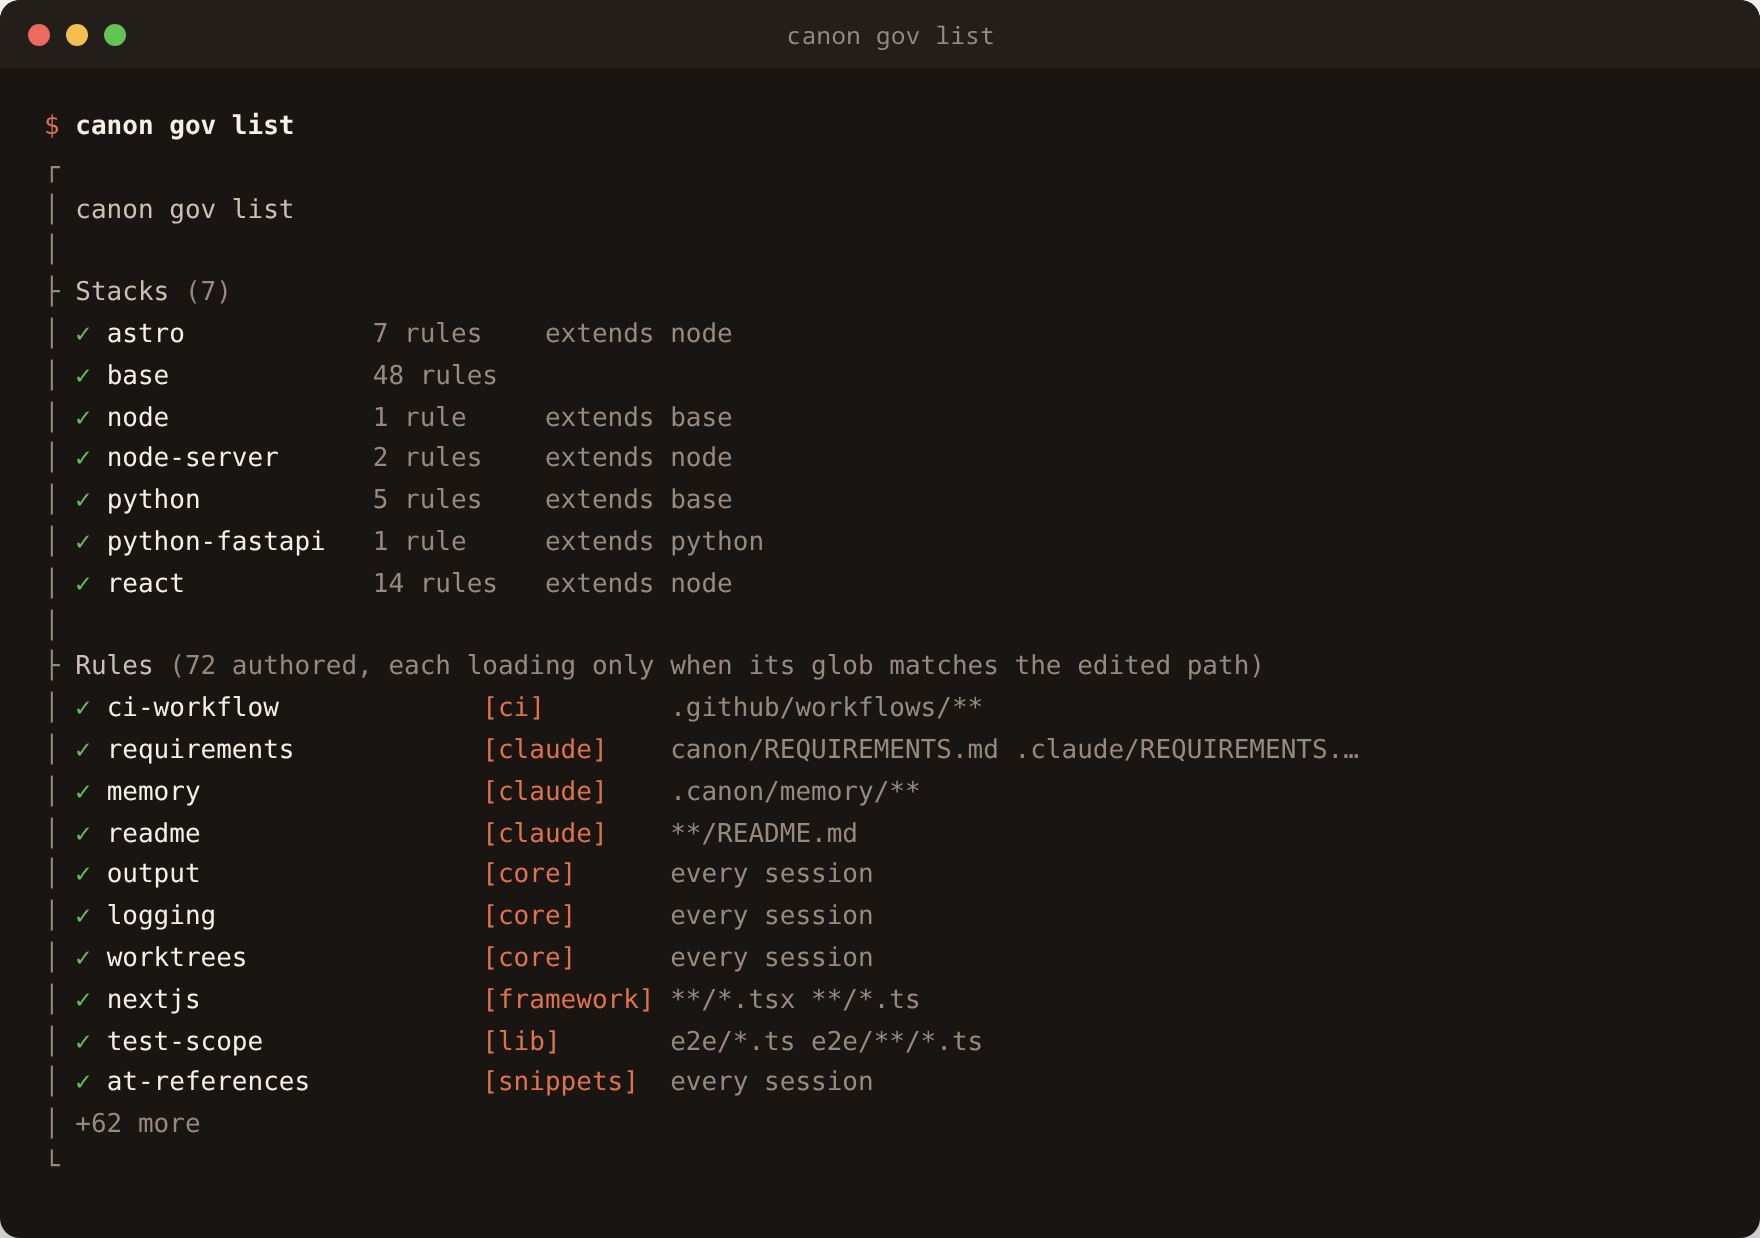
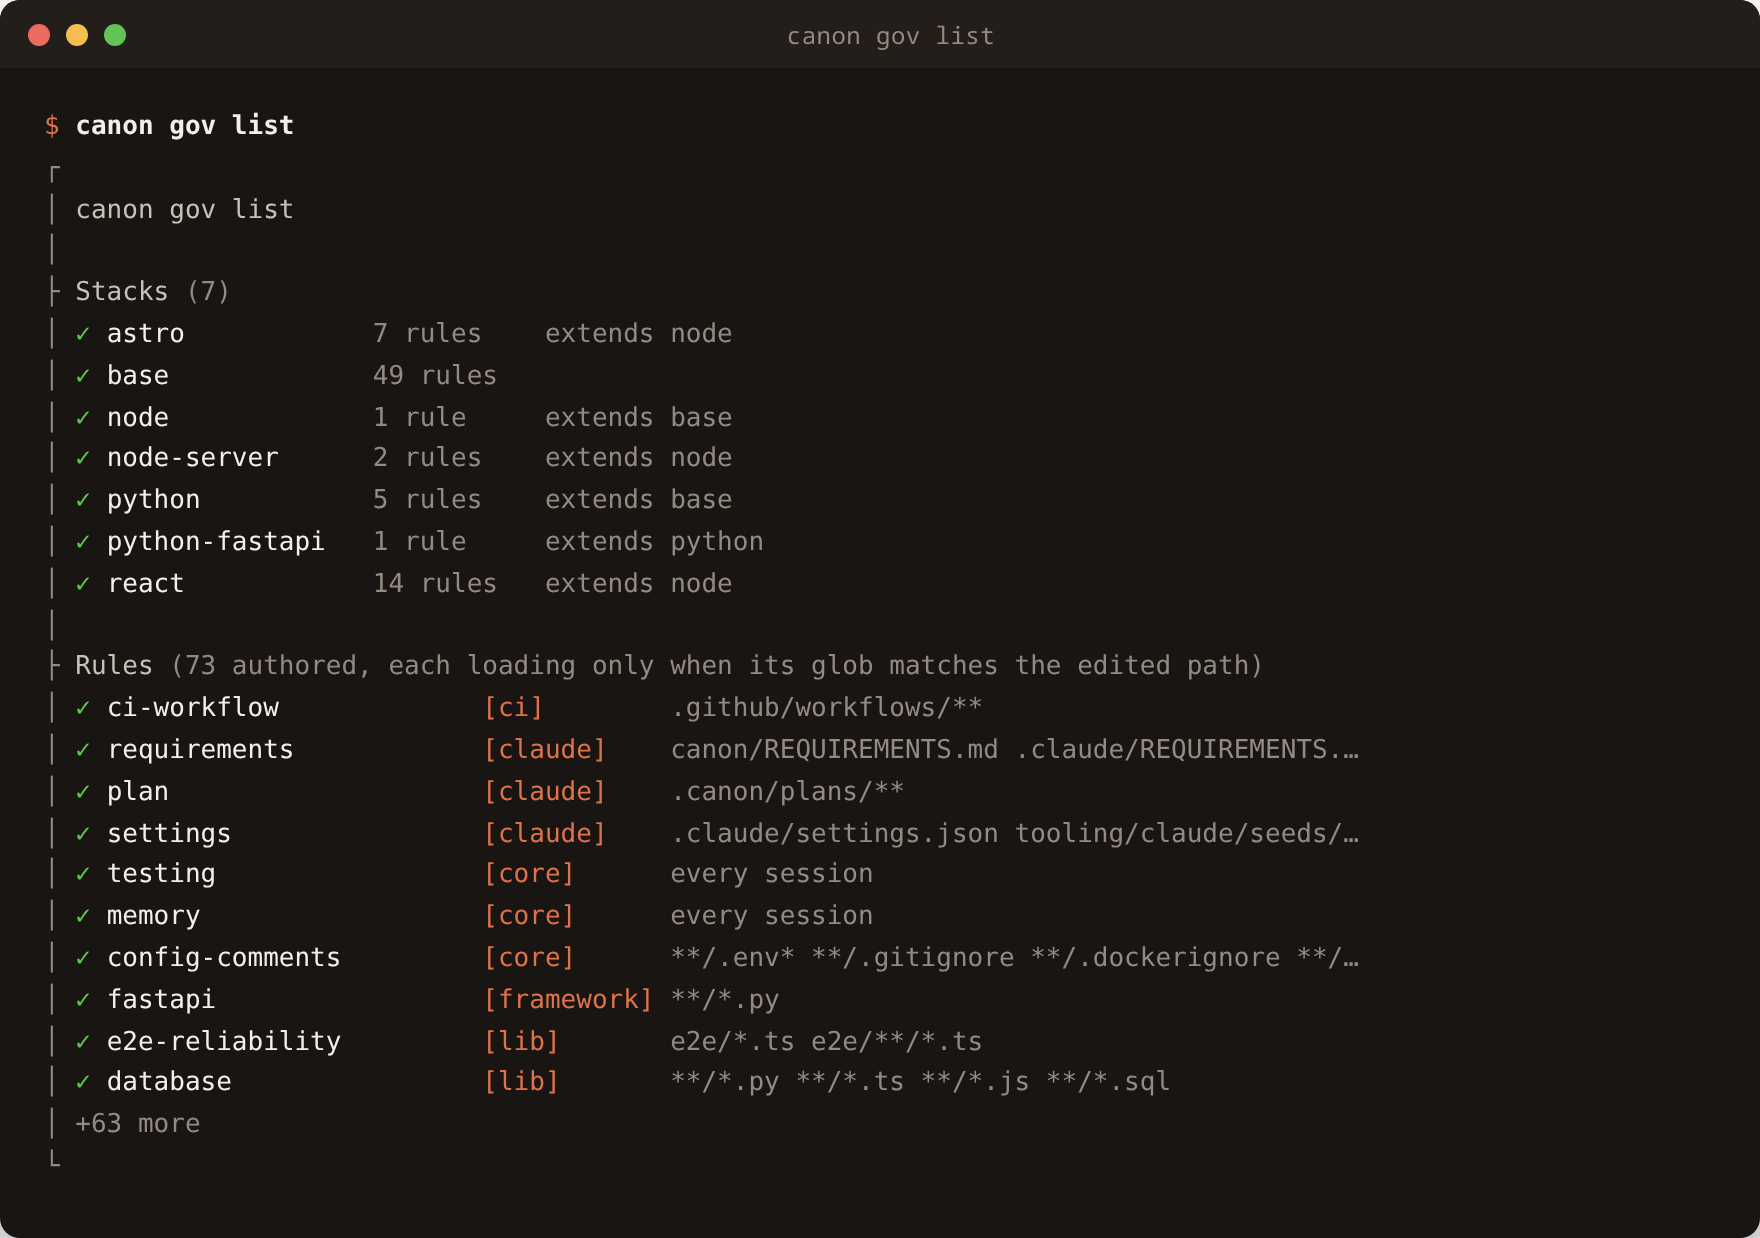
chore(assets): regenerate hero and governance captures
Claude-Session: https://claude.ai/code/session_01QwTa6Lgybc5u4zNPaf9CwS

diff --git a/assets/captures/governance.html b/assets/captures/governance.html
@@ -198,25 +198,25 @@
 <span class="frame">│</span>
 <span class="frame">├</span> Stacks <span class="muted">(7)</span>
 <span class="frame">│</span> <span class="ok">✓</span> <span class="name">astro            </span><span class="muted">7 rules    </span><span class="muted">extends node</span>
-<span class="frame">│</span> <span class="ok">✓</span> <span class="name">base             </span><span class="muted">48 rules   </span><span class="muted"></span>
+<span class="frame">│</span> <span class="ok">✓</span> <span class="name">base             </span><span class="muted">49 rules   </span><span class="muted"></span>
 <span class="frame">│</span> <span class="ok">✓</span> <span class="name">node             </span><span class="muted">1 rule     </span><span class="muted">extends base</span>
 <span class="frame">│</span> <span class="ok">✓</span> <span class="name">node-server      </span><span class="muted">2 rules    </span><span class="muted">extends node</span>
 <span class="frame">│</span> <span class="ok">✓</span> <span class="name">python           </span><span class="muted">5 rules    </span><span class="muted">extends base</span>
 <span class="frame">│</span> <span class="ok">✓</span> <span class="name">python-fastapi   </span><span class="muted">1 rule     </span><span class="muted">extends python</span>
 <span class="frame">│</span> <span class="ok">✓</span> <span class="name">react            </span><span class="muted">14 rules   </span><span class="muted">extends node</span>
 <span class="frame">│</span>
-<span class="frame">├</span> Rules <span class="muted">(72 authored, each loading only when its glob matches the edited path)</span>
+<span class="frame">├</span> Rules <span class="muted">(73 authored, each loading only when its glob matches the edited path)</span>
 <span class="frame">│</span> <span class="ok">✓</span> <span class="name">ci-workflow             </span><span class="domain">[ci]        </span><span class="muted">.github/workflows/**</span>
 <span class="frame">│</span> <span class="ok">✓</span> <span class="name">requirements            </span><span class="domain">[claude]    </span><span class="muted">canon/REQUIREMENTS.md .claude/REQUIREMENTS.…</span>
-<span class="frame">│</span> <span class="ok">✓</span> <span class="name">memory                  </span><span class="domain">[claude]    </span><span class="muted">.canon/memory/**</span>
-<span class="frame">│</span> <span class="ok">✓</span> <span class="name">readme                  </span><span class="domain">[claude]    </span><span class="muted">**/README.md</span>
-<span class="frame">│</span> <span class="ok">✓</span> <span class="name">output                  </span><span class="domain">[core]      </span><span class="muted">every session</span>
-<span class="frame">│</span> <span class="ok">✓</span> <span class="name">logging                 </span><span class="domain">[core]      </span><span class="muted">every session</span>
-<span class="frame">│</span> <span class="ok">✓</span> <span class="name">worktrees               </span><span class="domain">[core]      </span><span class="muted">every session</span>
-<span class="frame">│</span> <span class="ok">✓</span> <span class="name">nextjs                  </span><span class="domain">[framework] </span><span class="muted">**/*.tsx **/*.ts</span>
-<span class="frame">│</span> <span class="ok">✓</span> <span class="name">test-scope              </span><span class="domain">[lib]       </span><span class="muted">e2e/*.ts e2e/**/*.ts</span>
-<span class="frame">│</span> <span class="ok">✓</span> <span class="name">at-references           </span><span class="domain">[snippets]  </span><span class="muted">every session</span>
-<span class="frame">│</span> <span class="muted">+62 more</span>
+<span class="frame">│</span> <span class="ok">✓</span> <span class="name">plan                    </span><span class="domain">[claude]    </span><span class="muted">.canon/plans/**</span>
+<span class="frame">│</span> <span class="ok">✓</span> <span class="name">settings                </span><span class="domain">[claude]    </span><span class="muted">.claude/settings.json tooling/claude/seeds/…</span>
+<span class="frame">│</span> <span class="ok">✓</span> <span class="name">testing                 </span><span class="domain">[core]      </span><span class="muted">every session</span>
+<span class="frame">│</span> <span class="ok">✓</span> <span class="name">memory                  </span><span class="domain">[core]      </span><span class="muted">every session</span>
+<span class="frame">│</span> <span class="ok">✓</span> <span class="name">config-comments         </span><span class="domain">[core]      </span><span class="muted">**/.env* **/.gitignore **/.dockerignore **/…</span>
+<span class="frame">│</span> <span class="ok">✓</span> <span class="name">fastapi                 </span><span class="domain">[framework] </span><span class="muted">**/*.py</span>
+<span class="frame">│</span> <span class="ok">✓</span> <span class="name">e2e-reliability         </span><span class="domain">[lib]       </span><span class="muted">e2e/*.ts e2e/**/*.ts</span>
+<span class="frame">│</span> <span class="ok">✓</span> <span class="name">database                </span><span class="domain">[lib]       </span><span class="muted">**/*.py **/*.ts **/*.js **/*.sql</span>
+<span class="frame">│</span> <span class="muted">+63 more</span>
 <span class="frame">└</span></pre>
     </div>
   </body>

diff --git a/assets/captures/install-surface.html b/assets/captures/install-surface.html
@@ -206,18 +206,18 @@
 <span class="frame">│</span> <span class="ok">✓</span> <span class="name">web           </span><span class="muted">27 deps   </span><span class="muted">12 scripts  </span><span class="muted">extends base</span>
 <span class="blank"></span>
 <span class="prompt">$</span> <span class="cmd">canon standards list</span>
-<span class="frame">├</span> Standards <span class="muted">(31, never copied, opened by name when a session needs one)</span>
+<span class="frame">├</span> Standards <span class="muted">(32, never copied, opened by name when a session needs one)</span>
 <span class="frame">│</span> <span class="ok">✓</span> <span class="name">architecture      </span><span class="muted">canon/ARCHITECTURE.md</span>
 <span class="frame">│</span> <span class="ok">✓</span> <span class="name">context           </span><span class="muted">canon/context/</span>
-<span class="frame">│</span> <span class="ok">✓</span> <span class="name">docs              </span><span class="muted">docs/</span>
-<span class="frame">│</span> <span class="ok">✓</span> <span class="name">groundwork        </span><span class="muted">.canon/groundwork/&lt;nn&gt;-&lt;slug&gt;/</span>
-<span class="frame">│</span> <span class="ok">✓</span> <span class="name">markdown          </span><span class="muted">*</span>
+<span class="frame">│</span> <span class="ok">✓</span> <span class="name">diagrams          </span><span class="muted">.canon/diagrams/</span>
+<span class="frame">│</span> <span class="ok">✓</span> <span class="name">glossary          </span><span class="muted">.canon/teach/&lt;nn&gt;-&lt;topic&gt;/GLOSSARY.md</span>
+<span class="frame">│</span> <span class="ok">✓</span> <span class="name">issue             </span><span class="muted">read by name</span>
 <span class="frame">│</span> <span class="ok">✓</span> <span class="name">plan              </span><span class="muted">.canon/plans/feature-&lt;slug&gt;.md</span>
 <span class="frame">│</span> <span class="ok">✓</span> <span class="name">readme            </span><span class="muted">README.md</span>
 <span class="frame">│</span> <span class="ok">✓</span> <span class="name">session           </span><span class="muted">.canon/tasks/session-&lt;slug&gt;.md</span>
 <span class="frame">│</span> <span class="ok">✓</span> <span class="name">snippets          </span><span class="muted">read by name</span>
 <span class="frame">│</span> <span class="ok">✓</span> <span class="name">teach             </span><span class="muted">.canon/teach/&lt;nn&gt;-&lt;topic&gt;/</span>
-<span class="frame">│</span> <span class="muted">+21 more</span>
+<span class="frame">│</span> <span class="muted">+22 more</span>
 <span class="frame">└</span></pre>
     </div>
   </body>

diff --git a/assets/captures/hero.html b/assets/captures/hero.html
@@ -295,38 +295,38 @@
 
           <div class="col">
             <div class="col-head">
-              <span class="col-name">rules</span><span class="col-count">72</span>
+              <span class="col-name">rules</span><span class="col-count">73</span>
             </div>
             <div class="col-dest">.claude/rules/</div>
             <div class="entry">ci-workflow</div>
             <div class="entry">requirements</div>
+            <div class="entry">plan</div>
+            <div class="entry">settings</div>
+            <div class="entry">testing</div>
             <div class="entry">memory</div>
-            <div class="entry">readme</div>
-            <div class="entry">output</div>
-            <div class="entry">logging</div>
-            <div class="entry">worktrees</div>
-            <div class="entry">nextjs</div>
-            <div class="entry">test-scope</div>
-            <div class="entry">at-references</div>
-            <div class="more">+62 more</div>
+            <div class="entry">config-comments</div>
+            <div class="entry">fastapi</div>
+            <div class="entry">e2e-reliability</div>
+            <div class="entry">database</div>
+            <div class="more">+63 more</div>
           </div>
 
           <div class="col">
             <div class="col-head">
-              <span class="col-name">standards</span><span class="col-count">31</span>
+              <span class="col-name">standards</span><span class="col-count">32</span>
             </div>
             <div class="col-dest">via canon standards</div>
             <div class="entry">architecture</div>
             <div class="entry">context</div>
-            <div class="entry">docs</div>
-            <div class="entry">groundwork</div>
-            <div class="entry">markdown</div>
+            <div class="entry">diagrams</div>
+            <div class="entry">glossary</div>
+            <div class="entry">issue</div>
             <div class="entry">plan</div>
             <div class="entry">readme</div>
             <div class="entry">session</div>
             <div class="entry">snippets</div>
             <div class="entry">teach</div>
-            <div class="more">+21 more</div>
+            <div class="more">+22 more</div>
           </div>
         </div>
       </div>
